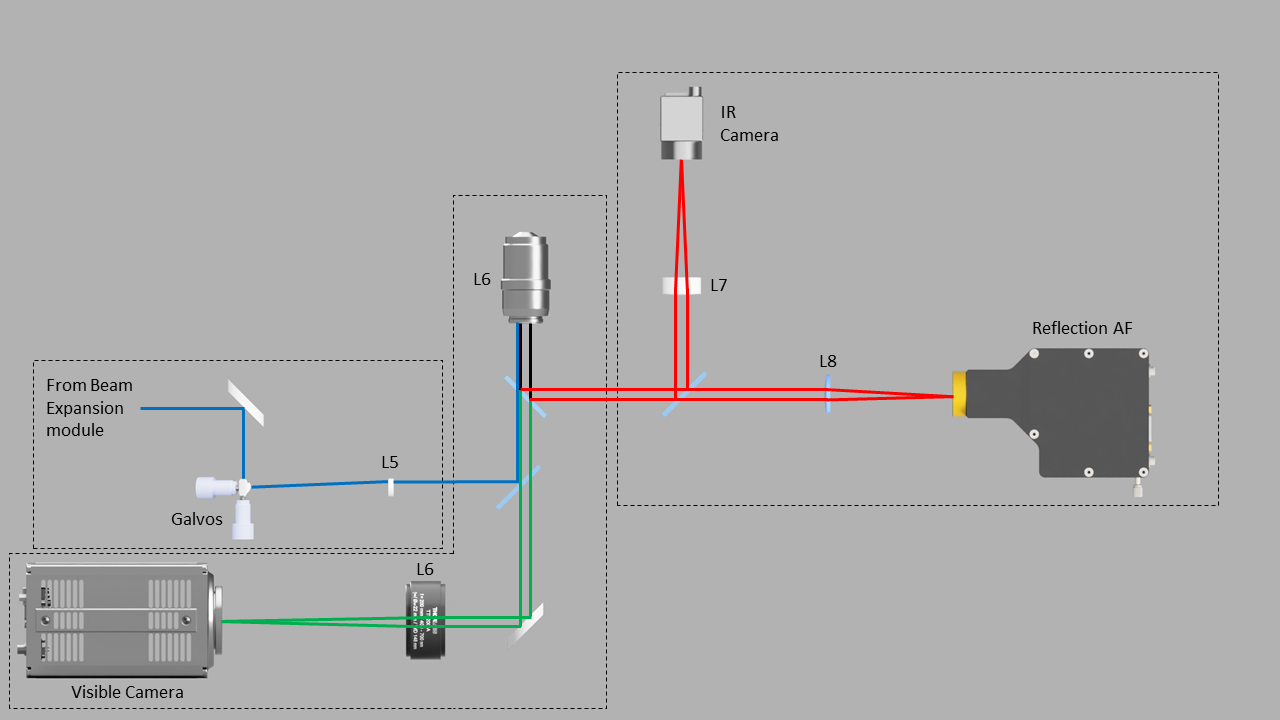
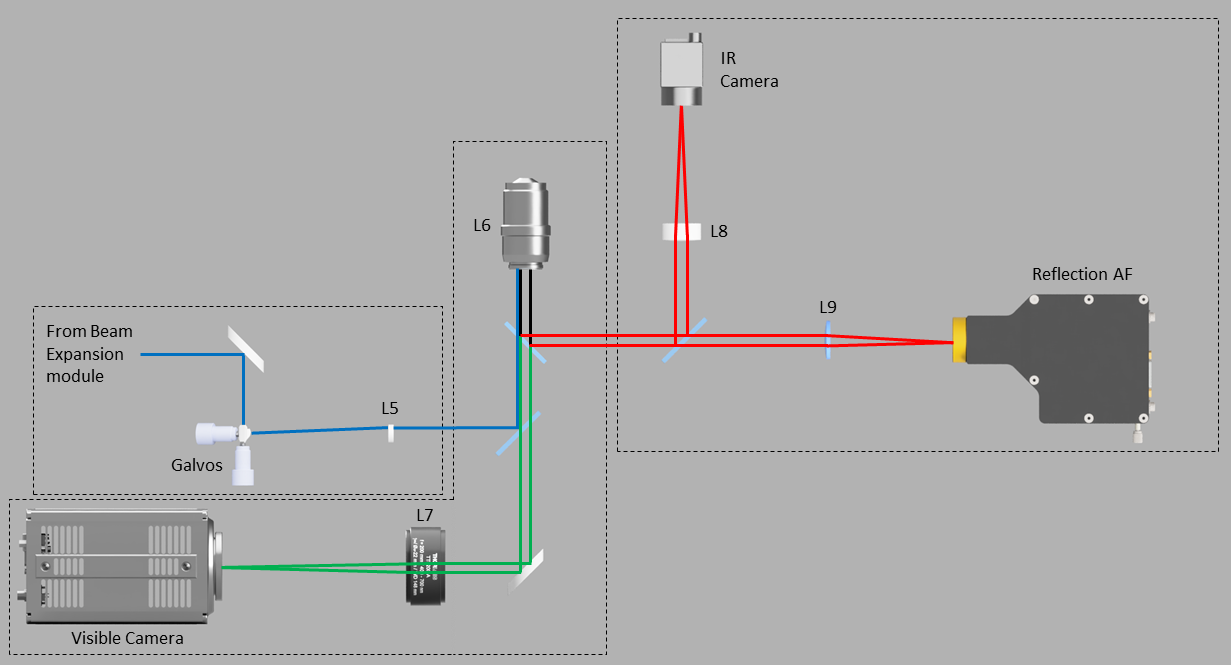
added improved line diagrams

Changed region(s): [[0.0, 0.0301, 0.9569, 0.9925]]

diff --git a/BeamExpansion.html b/BeamExpansion.html
@@ -129,13 +129,16 @@ function closeNav() {
 
   <p>The Beam Expansion module's fundamental role is to take the output beam from the Excitation module and both raise and broaden it for input into the Main Body.</p>
 
+  <img src="Images/Beam-Expansion-Module.PNG" width="60%">
+
   <p>Beam height is controlled by the periscope at the start of the module. We have used a Newport rail based periscope for easier alignment than post based designs.</p>
     
   <p>The beam diameter is increased by the -30mm lens and a choice of positive lenses (100mm, 200mm, and 400mm). A longer focal length lens selection will result in a broader beam (larger imaging area) and hence a lower power density which can then be finely adjusted using the iris.</p>
 
   <p>The final turning mirror simply directs the beam into the input port of the Main Body.</p>
 
-  <img src="Images/Beam-Expansion-Module.PNG" width="60%">
+  <img src="Images/Expansion Line Drawing.png" width="80%">
+  <p style=text-align:center>Optical Diagram: P=Periscope L1=-30mm lens, L2=100mm lens, L3=200mm lens, L4=400mm lens.<br>Only one of L(2-4) is used at any one time.</p>
 
   <h1 id="Parts">Parts</h1><hr>
   <iframe src="Parts-List/BeamExpansion-Parts.htm" width="100%" height="500px" title="Parts"></iframe>

diff --git a/MainBody.html b/MainBody.html
@@ -109,7 +109,8 @@ function LoadNav() {
 
   <p>All of this is contained within a structurally open frame to allow for easy access to adjustable components and for the later addition of optical pathways if required.</p>
 
-  <img src="Images/Line_MainBody.jpg" width="60%">
+  <img src="Images/Main Body Line Drawing.png" width="80%">
+  <p style=text-align:center>Optical Diagram: L5=200mm tube lens, L6=100X 1.49NA Objective, L7=200mm tube lens, L8=50mm tube lens, L9=100mm translatable lens,<br>Blue = Excitation, Red = Infra-Red, Green = Emission.</p>
 
   <h1 id="Parts">Parts</h1><hr>
   <iframe src="Parts-List/MainBody-Parts.htm" width="100%" height="500px" title="Parts"></iframe>

diff --git a/Excitation.html b/Excitation.html
@@ -103,7 +103,8 @@ function closeNav() {
     
     <p>Each laser pathway contains a mirror pair to allow for simple alignment and are kept on axis wherever possible, once again, for simplicity.</p>
     
-    <img src="Images/Line_Excitation.jpg" width="60%">
+    <img src="Images/Excitation Line Drawing.png" width="60%">
+    <p style=text-align:center>Optical Diagram: F(1-4)=Cleanup filters, D(1-3)=Dichroic mirrors, DM="D" shaped mirror.</p>
 
     <h1 id="Parts">Parts</h1><hr>
     <iframe src="Parts-List/Excitation-Parts.htm" width="100%" height="500px" title="Parts"></iframe>

diff --git a/main.css b/main.css
@@ -207,6 +207,10 @@ body, html {
     text-decoration: none;
     font-size: 12px;
   }
+
+  .figcaption {
+    margin-left: 25.5%;
+  }
   
   .bottomnav a:hover {
     background: #ddd;
